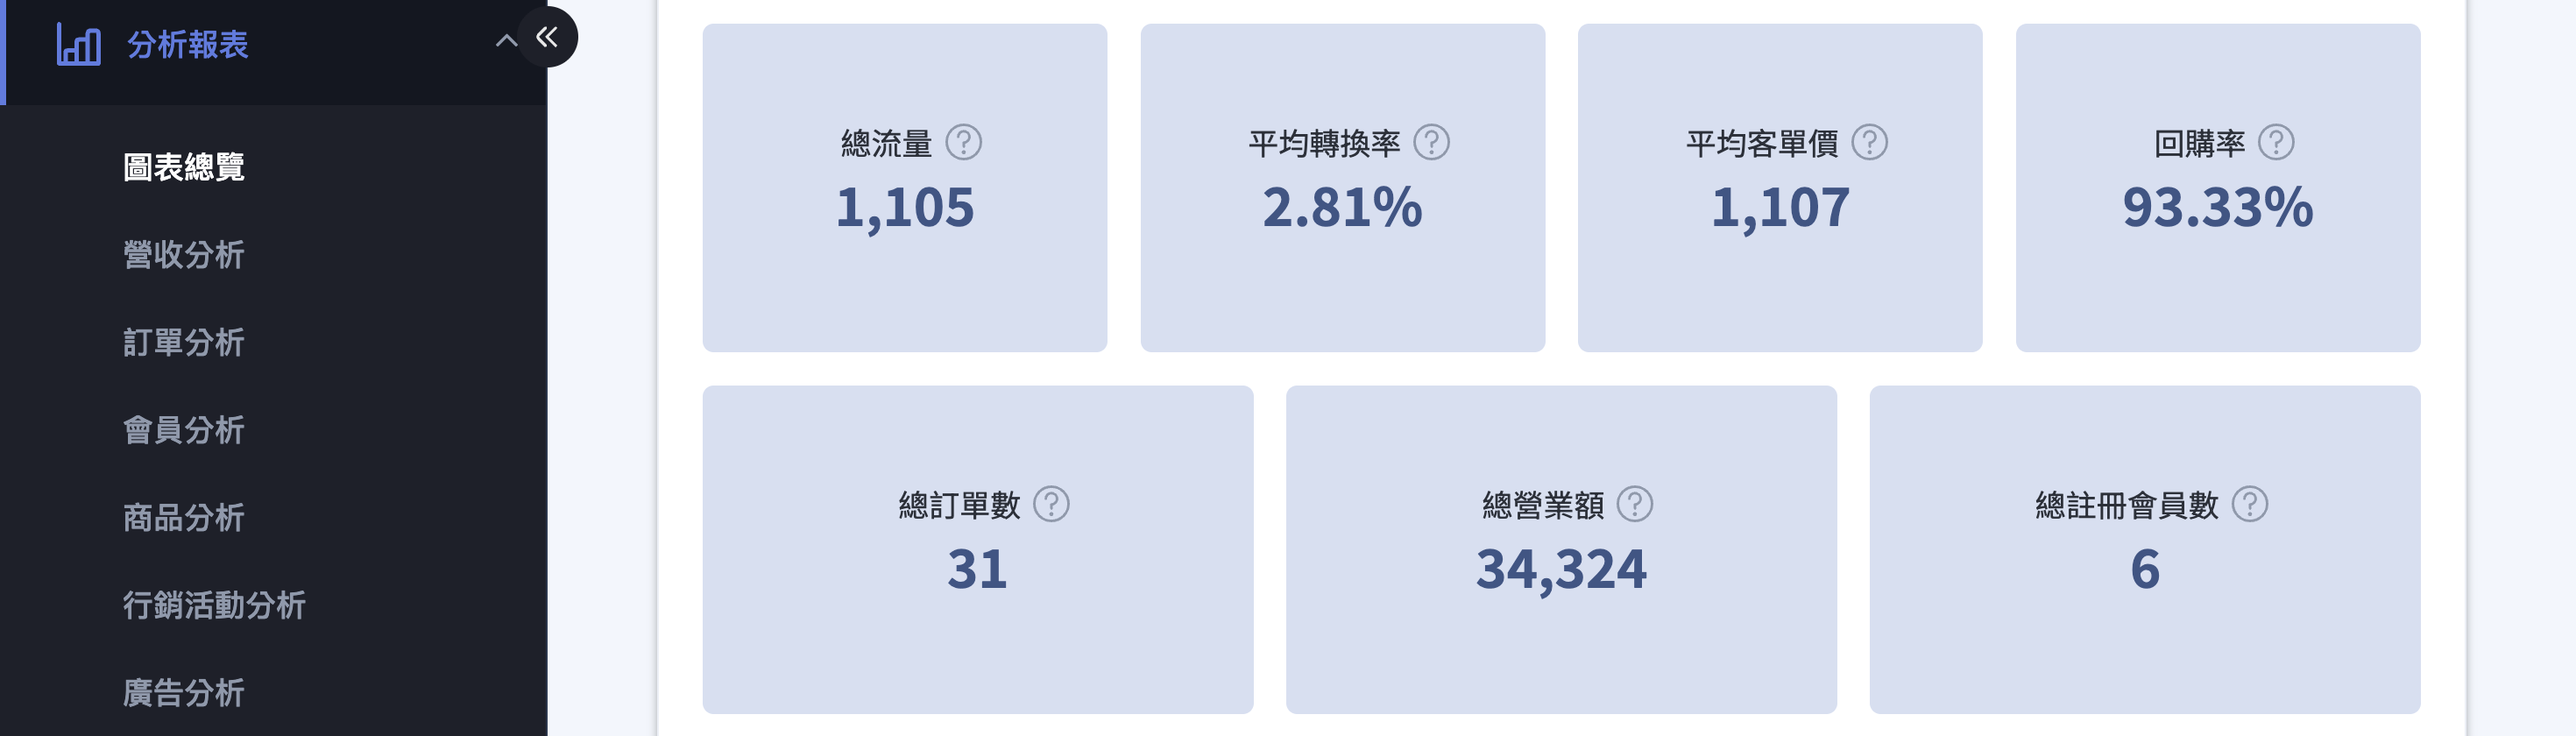
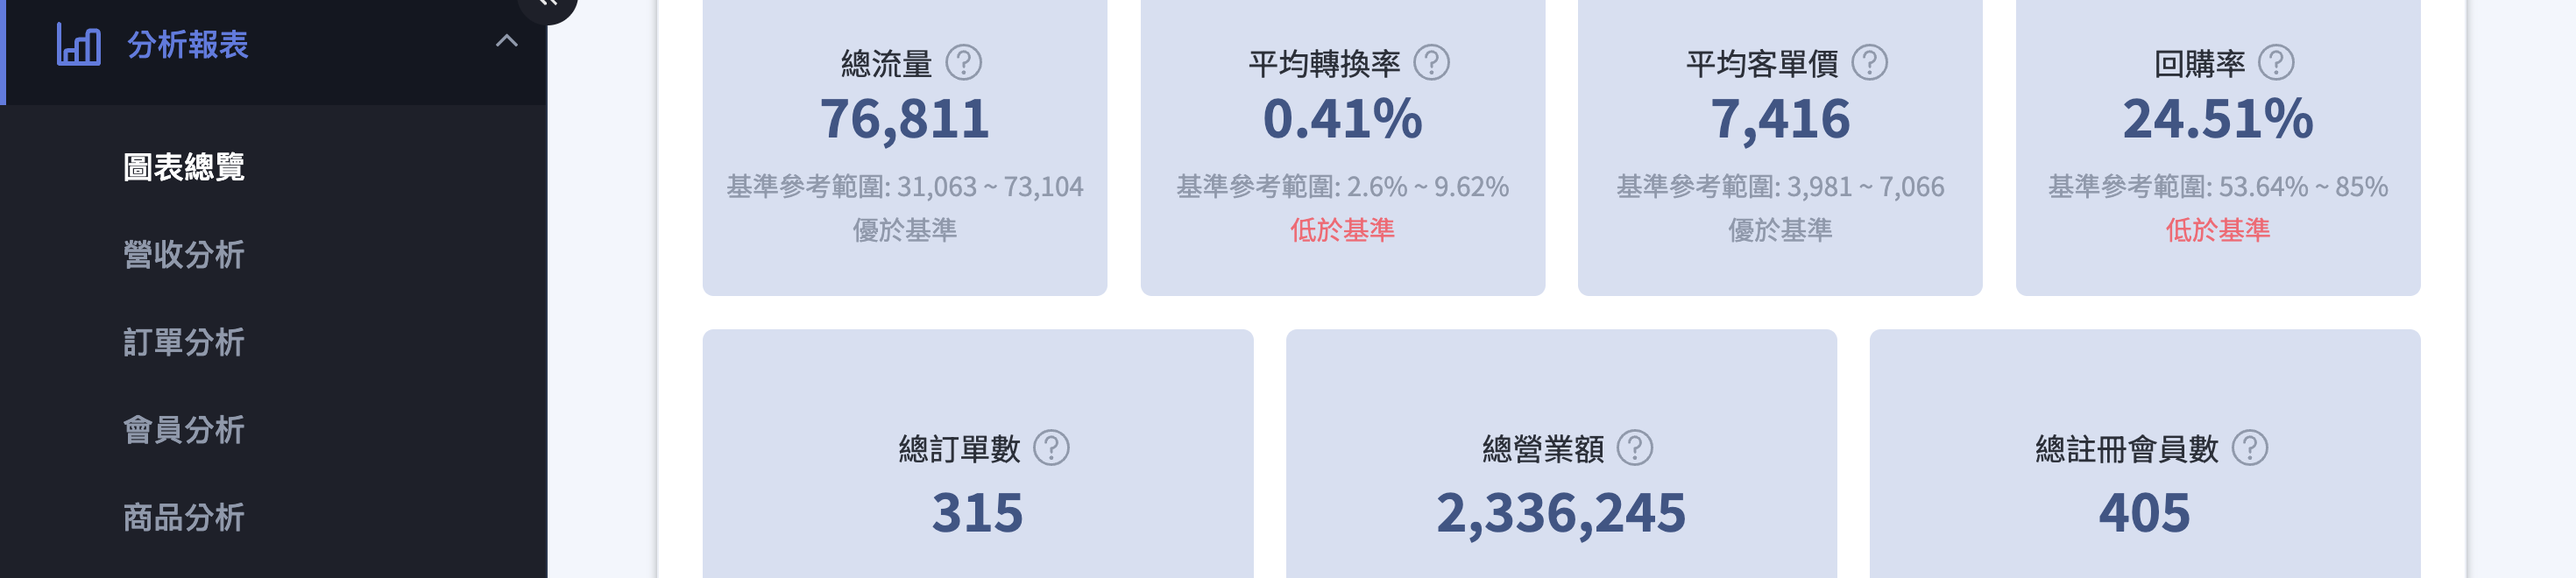
update

diff --git a/docs/ec/business-intelligence/business-intelligence-overview.md b/docs/ec/business-intelligence/business-intelligence-overview.md
@@ -2,7 +2,7 @@
 title: 圖表總覽
 description: 透過圖表總覽在單一頁面掌握網路商店與實體門市的關鍵經營數據，並與同業基準互相對照，快速找出可優化的項目。
 created: 2026-06-15 10:01
-last_modified: 2026-06-30 21:21
+last_modified: 2026-07-09 17:31
 lang: zh-TW
 type: tutorial
 status: ""
@@ -32,7 +32,16 @@ intents: []
 features: []
 prerequisites: []
 related: []
-tags: []
+tags:
+  - 分析報表
+  - 圖表總覽
+  - 基準化分析
+  - 基準參考範圍
+  - EC 分析
+  - POS 分析
+  - 趨勢圖
+  - 指標卡
+  - 營業額
 acoiv: ""
 apis: []
 devices:
@@ -99,12 +108,10 @@ hide:
         - **後台登入頁→總覽：** 沒有被取消的訂單（包含退貨／拒絕退貨訂單），且會即時更新。
         - **分析圖表→圖表總覽：** 有效訂單，且固定時段更新。
 
-<!--
 === "POS總覽"
     實體門市(POS)的營業額、訂單、消費人數等數據
 
     ![POS總覽](../../assets/images/ec-bi-overview-pos.png){ title="POS總覽" }
--->
 
 ## 使用前提與限制 { #prerequisites-chart-overview }
 
@@ -115,7 +122,7 @@ hide:
 - [x] **產業類別判定**：基準參考範圍會依商家的商品屬性自動判定所屬產業，無法手動指定。
 
 !!! plan "方案差異"
-    基準參考範圍為企業版專屬功能。若您的方案未包含此功能，指標卡將不會顯示基準參考範圍與狀態標籤；如需了解升級方式，請洽您的開店顧問或客服。
+    基準參考範圍為企業版專屬功能。若您的方案未包含此功能，指標卡將不會顯示基準參考範圍與狀態標籤。
 
 ## 操作步驟 { #operate-chart-overview }
 
@@ -160,7 +167,7 @@ hide:
         - **淺藍曲線：** 時間範圍為 2024-06-01 ~ 2024-07-31，為期 2 個月。
         - **粉紅曲線：** 時間範圍為 2025-04-01 ~ 2025-05-31，為期 2 個月。
 
-??? tip "使用情境"
+??? example "使用情境"
     您可選擇特定行銷檔期作為時間區間，如：過年檔期、母親節檔期、暑假檔期。
 
     - **深藍曲線：** 幫助您了解今年此檔期的銷售狀況。
@@ -177,6 +184,8 @@ hide:
 2. **判讀狀態標籤：** 狀態分為 **優於基準**、**符合基準**、**低於基準** 三種[^bm-status]，其中「低於基準」會以紅色標示，代表該指標的優化效益較高。
 3. **查看資料來源：** 將滑鼠移至卡片上的提示圖示，會看到「此數值來自於相似類別、同等表現商家之統計」，並附上對應的「教學資源」連結。
 
+![指標卡基準參考範圍](../../assets/images/ec-bi-overview-metric-cards-small.png){ title="指標卡基準參考範圍" }
+
 [^bm-status]: 各狀態的詳細意義與建議動作，請見 [基準參考範圍狀態對照表](references/benchmark-reference-range-status-reference.md#reference-chart-overview-benchmark-status){ data-preview }。
 
 <div class="grid cards" markdown>
@@ -190,8 +199,47 @@ hide:
 
 ### 查看 POS 總覽 { #operate-chart-overview-pos }
 
-1. **切換分頁：** 點選 **「POS總覽」** 分頁。
-2. **檢視門市概況：** 此分頁顯示「本月POS概況」，包含營業額、訂單數、消費人數、人均消費額等實體門市指標。
+!!! plan "方案 / 功能"
+    POS 總覽分頁僅在商家已串接 CYBERBIZ POS 系統時才會顯示。
+
+1. **切換分頁：** 點選頁面上方「POS總覽」分頁。
+2. **檢視門市概況指標卡：** 上方「本月POS概況」以指標卡呈現營業額、訂單數、消費人數、人均消費額等實體門市彙總數字。
+
+    ![本月POS概況指標卡](../../assets/images/ec-bi-overview-pos-metric-cards.png){ title="本月POS概況指標卡" }
+
+3. **切換指標趨勢圖：** 指標卡下方的趨勢圖可切換 **營業額、訂單數、消費人數、平均訂單金額、人均消費額** 五種指標，檢視所選時段的變化；滑鼠移至曲線可看單點數值。
+
+    === "營業額"
+        ![營業額趨勢圖](../../assets/images/ec-bi-overview-pos-trend-revenue.png){ title="營業額趨勢圖" }
+
+    === "訂單數"
+        ![訂單數趨勢圖](../../assets/images/ec-bi-overview-pos-trend-orders.png){ title="訂單數趨勢圖" }
+
+    === "消費人數"
+        ![消費人數趨勢圖](../../assets/images/ec-bi-overview-pos-trend-customers.png){ title="消費人數趨勢圖" }
+
+    === "平均客單價"
+        ![平均客單價趨勢圖](../../assets/images/ec-bi-overview-pos-trend-aov.png){ title="平均客單價趨勢圖" }
+
+    === "人均消費額"
+        ![人均消費額趨勢圖](../../assets/images/ec-bi-overview-pos-trend-per-customer.png){ title="人均消費額趨勢圖" }
+
+4. **查看各門市排行：** 頁面下方的門市明細表以每間門市為一列，欄位包含：
+
+    ![各門市排行表](../../assets/images/ec-bi-overview-pos-ranking-table.png){ title="各門市排行表" }
+
+??? info "欄位說明"
+
+    | 欄位 | 說明 |
+    | :-- | :-- |
+    | 排名 | 依本月營業額高至低排序 |
+    | 門市 | 門市名稱 |
+    | 本月營業額 | 該門市本月累計營業額 |
+    | 本月訂單數 | 該門市本月訂單筆數 |
+    | 本月消費人數 | 該門市本月消費人數 |
+    | 本月日均營業額 | 本月營業額 ÷ 天數 |
+    | 本月平均訂單金額 | 本月營業額 ÷ 訂單數 |
+    | 本月人均消費額 | 本月營業額 ÷ 消費人數 |
 
 ## 重要規範與限制 { #specs-chart-overview }
 

diff --git a/docs/ec/business-intelligence/benchmarking.md b/docs/ec/business-intelligence/benchmarking.md
@@ -2,7 +2,7 @@
 title: 基準化分析
 description: 透過 AI 機器學習比對同業基準，找出商店流量、轉換率、客單價、回購率的優化方向。
 created: 2026-06-15
-last_modified: 2026-06-30 12:19
+last_modified: 2026-07-09 17:42
 lang: zh-TW
 type: tutorial
 status: ""
@@ -80,10 +80,10 @@ hide: []
 
 - [x] **適用版本：** 僅限 **企業版** 客戶使用。
 - [x] **支援產品類別：** 目前為 Beta 測試階段，主要支援以下四大類別商家：
-    - 食品、飲料
+    - 食物、飲食和煙草
     - 保健與美容
     - 服飾與配件
-    - 居家和庭院
+    - 居家和庭園
 - [x] **認列訂單定義：** 數據計算需同時符合「訂單狀態非取消」且「不需退貨或拒絕退貨」兩個條件。
 
 ## 四大重要基準指標 { #key-metrics }
@@ -101,14 +101,16 @@ hide: []
 
 可參考電商公式：**GMV (總營業額) = 流量 × 轉換率 × 客單價 × 回購率**。
 
-- **找出優化優先順序：** 當某項指標**低於市場基準範圍**時，通常代表該指標具備較高的優化效益，應將其列為優化計畫的首要任務。
+- **找出優化優先順序：** 當某項指標 **低於市場基準範圍** 時，通常代表該指標具備較高的優化效益，應將其列為優化計畫的首要任務。
 - **檔期分析：** 可自訂時間區間（如過年、週年慶檔期），查看當期數據與前一年同期或前一期的對比，衡量行銷活動的成效。
 
-## 操作路徑與數據查看 { #operate }
+## 操作步驟 { #operate }
 
 1. **進入頁面：** 登入後台，點選 **「分析報表」>「圖表總覽」**。
-2. **查看趨勢圖：** 在圖表總覽中，除了能看到本期數據外，若符合上述產品類別，系統會自動在圖表上顯示基準值範圍。
+2. **查看趨勢圖：** 在圖表總覽中，除了能看到本期數據外，若符合上述產品類別，系統會自動在指標卡上顯示基準值範圍。
 3. **學習資源：** CYBERBIZ 會針對各個指標（如提升流量的 SEO、提升客單價的加價購等）不定時開辦線上課程或錄製教學影片供品牌參考。
+
+![指標卡基準參考範圍](../../assets/images/ec-bi-overview-metric-cards-small.png){ title="指標卡基準參考範圍" }
 
 !!! tip "提升各指標的線上課程"
     可前往 [CYBERBIZ 商學院](https://tutorcyb.cyberbiz.co/) 尋找流量、轉換率、客單價、回購率相關的學習資源。

diff --git a/docs/ec/business-intelligence/basic-chart.md b/docs/ec/business-intelligence/basic-chart.md
@@ -2,7 +2,7 @@
 title: 基本報表
 description: 在後台一頁掌握商店銷售與流量概況，包含商品銷售排行、訂單數量、總銷售額及近七日瀏覽人次。
 created: 2026-06-21
-last_modified: 2026-06-30 21:21
+last_modified: 2026-07-09T15:55:08+08:00
 lang: zh-TW
 type: tutorial
 status: ""
@@ -49,7 +49,6 @@ tags:
   - 訂單數量
   - 總銷售額
   - 瀏覽人次
-  - EC
 acoiv: ""
 apis: []
 devices:
@@ -87,13 +86,6 @@ hide:
 
 !!! note "註釋"
     「訂單數量」與「總銷售額」共用頁面右上角的同一個時間區間選單，切換時兩張圖表會一起更新；「近七日瀏覽人次」固定顯示最近七天，不受該選單影響。
-
-## 使用前提與限制 { #prerequisites-basic-chart }
-
-!!! plan "方案 / 開通條件"
-    「基本報表」是多數方案內建的功能，出現在後台「分析報表」選單下。若您的選單中找不到這個項目，通常代表目前方案改為提供功能更完整的相關分析報表；如需確認，請聯絡客服。
-
----
 
 ## 操作步驟 { #operate-basic-chart }
 

diff --git a/docs/ec/business-intelligence/references/basic-chart-metrics-reference.md b/docs/ec/business-intelligence/references/basic-chart-metrics-reference.md
@@ -2,7 +2,7 @@
 title: 基本報表計算規則對照表
 description: 認識基本報表四項核心區塊的計算規則：訂單數量、總銷售額、商品銷售排行、近七日瀏覽人次。
 created: 2026-06-21
-last_modified: 2026-06-21 23:59
+last_modified: 2026-07-09 15:55
 lang: zh-TW
 type: reference
 status: ""
@@ -18,7 +18,6 @@ sites:
 audiences:
   - admin
 tags:
-  - EC
   - 報表分析
   - 基本報表
   - 訂單數量

diff --git a/docs/ec/business-intelligence/references/bi-overview-metrics-reference.md b/docs/ec/business-intelligence/references/bi-overview-metrics-reference.md
@@ -2,7 +2,7 @@
 title: 圖表總覽指標對照表
 description: 認識 Business Intelligence 圖表總覽的四項核心指標：總流量、平均轉換率、平均客單價、回購率。
 created: 2026-06-15
-last_modified: 2026-06-15 17:19
+last_modified: 2026-07-09 16:07
 lang: zh-TW
 type: reference
 status: ""
@@ -18,7 +18,6 @@ sites:
 audiences:
   - admin
 tags:
-  - EC
   - 報表分析
   - 流量分析
   - 轉換率
